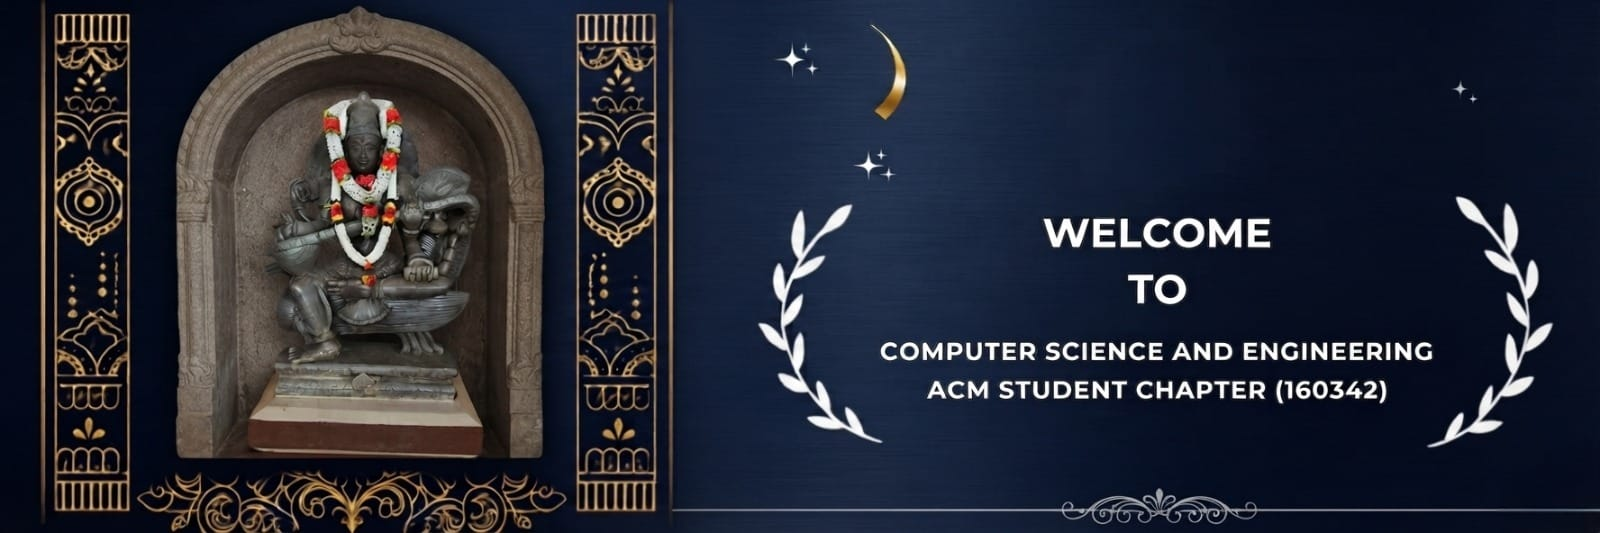
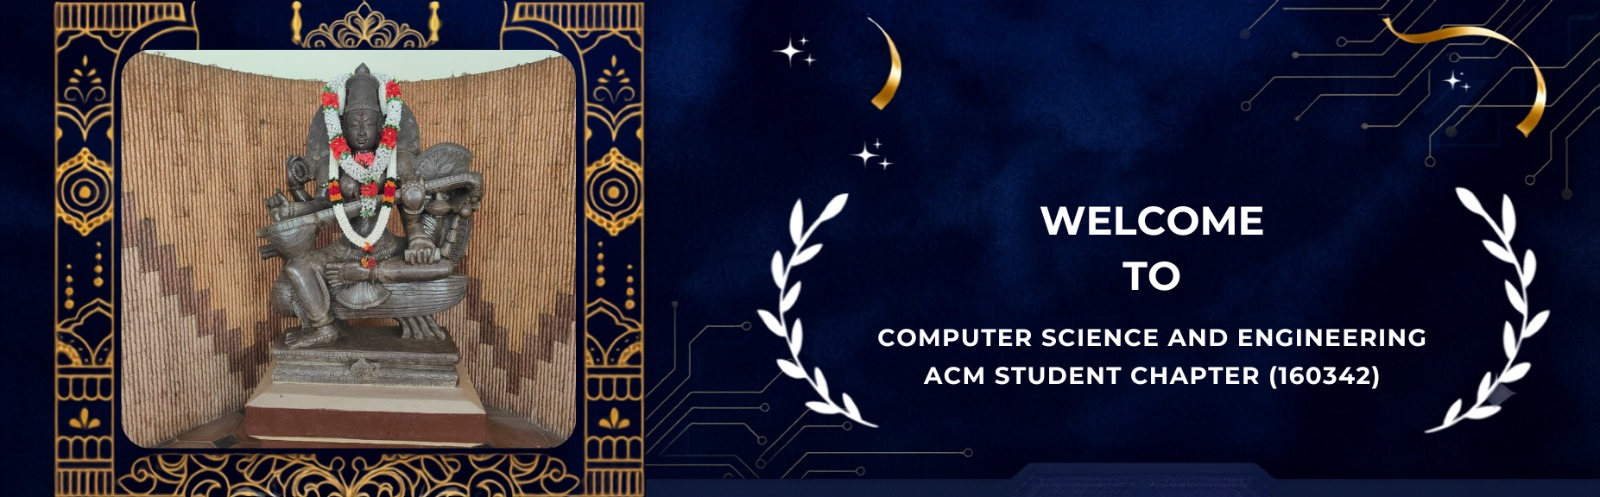
Fix mobile hero slider height, crop geotag overlay, and update directory filter chips layout

diff --git a/assets/js/teams.js b/assets/js/teams.js
@@ -208,10 +208,27 @@ document.addEventListener('DOMContentLoaded', function () {
     }).join('');
 
     /* Cohort Breakdown */
-    var branchCounts = {};
-    d.members.forEach(function (m) { branchCounts[m.branch] = (branchCounts[m.branch] || 0) + 1; });
-    var breakdownHtml = Object.keys(branchCounts).map(function (b) {
-      return '<div class="breakdown-chip"><b>' + branchCounts[b] + '</b> ' + b + '</div>';
+    var totalStudents = d.students || d.members.length;
+    var totalStaff = d.staff || d.staffList.length;
+    var totalLead = d.leadership.length;
+    var genMembersCount = Math.max(0, totalStudents - totalLead);
+    var facultyAdvisorCount = d.staffList.filter(function (s) { return s.role && s.role.indexOf('Advisor') !== -1; }).length || 1;
+    var coordinatorCount = Math.max(0, totalStaff - facultyAdvisorCount);
+
+    var breakdownItems = [
+      { num: totalStudents, label: 'CSE Students' },
+      { num: totalStaff, label: 'Faculty & Staff' },
+      { num: totalLead, label: 'Leadership Core' },
+      { num: genMembersCount, label: 'Chapter Members' },
+      { num: facultyAdvisorCount, label: 'Faculty ' + (facultyAdvisorCount > 1 ? 'Advisors' : 'Advisor') }
+    ];
+
+    if (coordinatorCount > 0) {
+      breakdownItems.push({ num: coordinatorCount, label: 'Staff ' + (coordinatorCount > 1 ? 'Coordinators' : 'Coordinator') });
+    }
+
+    var breakdownHtml = breakdownItems.map(function (item) {
+      return '<div class="breakdown-chip"><b>' + item.num + '</b> ' + item.label + '</div>';
     }).join('');
 
     /* Staff Cards */

diff --git a/gallery.html b/gallery.html
@@ -1006,18 +1006,23 @@
         }
       }, { passive: true });
 
-      // Smooth navigation buttons
+      // Smooth navigation buttons (On mobile, arrow buttons navigate to previous/next event marquee)
       function handleNavClick(dir) {
-        reelObj.isInteracting = true;
-        clearTimeout(reelObj.interactTimer);
-        strip.scrollBy({ left: dir * 480, behavior: 'smooth' });
-        reelObj.interactTimer = setTimeout(() => {
-          const setWidth = reelObj.getSingleSetWidth();
-          if (setWidth > 0) {
-            reelObj.pos = strip.scrollLeft % setWidth;
-          }
-          reelObj.isInteracting = false;
-        }, 550);
+        if (window.innerWidth <= 768) {
+          const targetIdx = (idx + dir + EVENTS.length) % EVENTS.length;
+          selectEventReel(EVENTS[targetIdx].id);
+        } else {
+          reelObj.isInteracting = true;
+          clearTimeout(reelObj.interactTimer);
+          strip.scrollBy({ left: dir * 480, behavior: 'smooth' });
+          reelObj.interactTimer = setTimeout(() => {
+            const setWidth = reelObj.getSingleSetWidth();
+            if (setWidth > 0) {
+              reelObj.pos = strip.scrollLeft % setWidth;
+            }
+            reelObj.isInteracting = false;
+          }, 550);
+        }
       }
 
       reel.querySelector('.rl-left').addEventListener('click', () => handleNavClick(-1));

diff --git a/assets/css/teams.css b/assets/css/teams.css
@@ -524,12 +524,22 @@ html, body {
   background: var(--teams-bg-soft2);
   border: 1px solid var(--teams-line);
   border-radius: 999px;
-  padding: 9px 16px;
+  padding: 8px 16px;
   font-family: 'Space Grotesk', system-ui, sans-serif;
   font-size: 12.5px;
   color: var(--teams-navy-800);
+  display: inline-flex;
+  align-items: center;
+  gap: 6px;
+  transition: all 0.2s ease;
 }
-.breakdown-chip b { color: var(--teams-navy-900); font-size: 13.5px; }
+.breakdown-chip:hover {
+  background: #ffffff;
+  border-color: var(--teams-navy-800);
+  box-shadow: 0 4px 12px rgba(11, 31, 77, 0.08);
+  transform: translateY(-1px);
+}
+.breakdown-chip b { color: var(--teams-navy-900); font-size: 13.5px; font-weight: 700; }
 
 /* ---------- YEAR SEARCH ---------- */
 .year-search {
@@ -831,7 +841,7 @@ html, body {
   font-size: 13.5px;
 }
 
-.modal-filters { display: flex; flex-wrap: wrap; gap: 8px; margin-bottom: 14px; }
+.modal-filters { display: flex; flex-wrap: wrap; justify-content: center; align-items: center; gap: 8px; margin-bottom: 14px; }
 .filter-chip {
   font-family: 'Space Grotesk', system-ui, sans-serif;
   font-size: 12px;

diff --git a/index.html b/index.html
@@ -11,7 +11,25 @@
   <link
     href="https://fonts.googleapis.com/css2?family=Playfair+Display:wght@600;700&family=Source+Sans+3:wght@400;600;700&family=IBM+Plex+Mono:wght@500&display=swap"
     rel="stylesheet">
-  <link rel="stylesheet" href="assets/css/style.css">
+  <link rel="stylesheet" href="assets/css/style.css?v=20260813_v4">
+  <style>
+    @media (max-width: 768px) {
+      .about-hero-banner {
+        min-height: 380px !important;
+        max-height: 400px !important;
+        height: 380px !important;
+        padding: 0 !important;
+      }
+      .about-hero-slide {
+        background-size: cover !important;
+        background-position: center 15% !important;
+        transform: none !important;
+      }
+      .about-hero-controls {
+        bottom: 16px !important;
+      }
+    }
+  </style>
 </head>
 
 <body>

diff --git a/teams.html b/teams.html
@@ -238,8 +238,8 @@
       <div class="eyebrow crimson" id="modalYearBadge">ROSTER · 2025-2026</div>
       <h3 id="modalTitle">Full Member Roster</h3>
       <div class="meta" id="modalMeta">58 students · 15 staff</div>
-      <input class="modal-search" id="modalSearchInput" placeholder="Search by name…" oninput="onModalSearch(this.value)">
       <div class="modal-filters" id="modalFilters"></div>
+      <input class="modal-search" id="modalSearchInput" placeholder="Search by name…" oninput="onModalSearch(this.value)">
       <div class="modal-table-wrap">
         <table class="modal-table">
           <thead><tr><th>Name</th><th>Role</th><th>Branch / Dept</th><th>Type</th></tr></thead>

diff --git a/assets/css/style.css b/assets/css/style.css
@@ -809,6 +809,25 @@ p {
   transition: opacity 1.2s cubic-bezier(0.4, 0, 0.2, 1), transform 1.2s cubic-bezier(0.4, 0, 0.2, 1);
 }
 
+@media (max-width: 768px) {
+  .about-hero-banner {
+    min-height: 360px !important;
+    max-height: 400px !important;
+    height: 380px !important;
+    padding: 0 !important;
+  }
+
+  .about-hero-slide {
+    background-size: cover !important;
+    background-position: center 15% !important;
+    transform: none !important;
+  }
+
+  .about-hero-controls {
+    bottom: 16px !important;
+  }
+}
+
 .about-hero-slide.active {
   opacity: 1;
   transform: scale(1);
